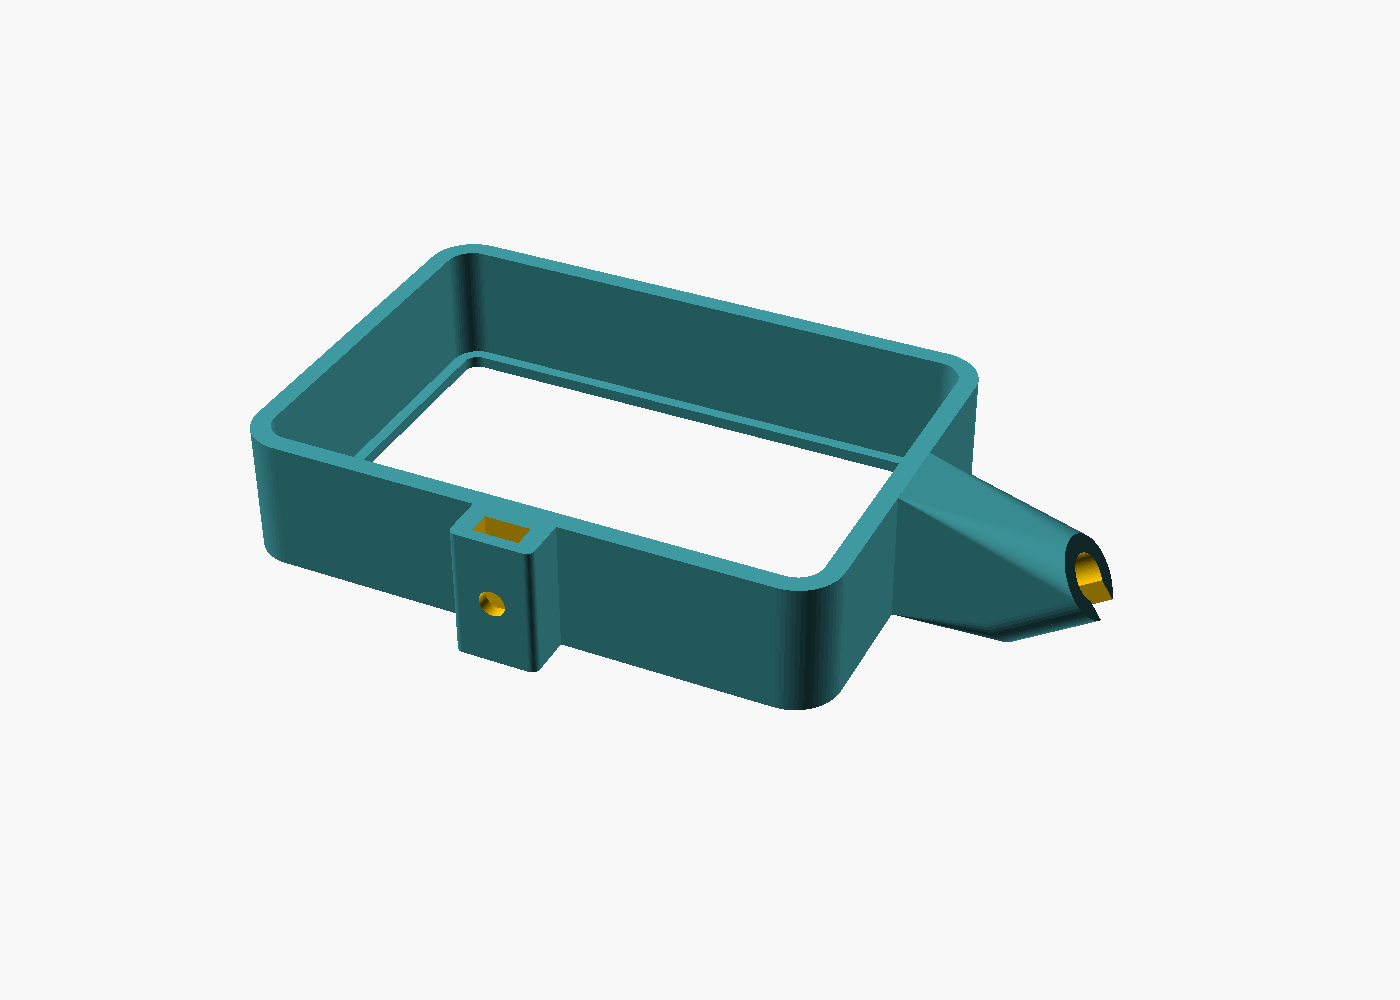
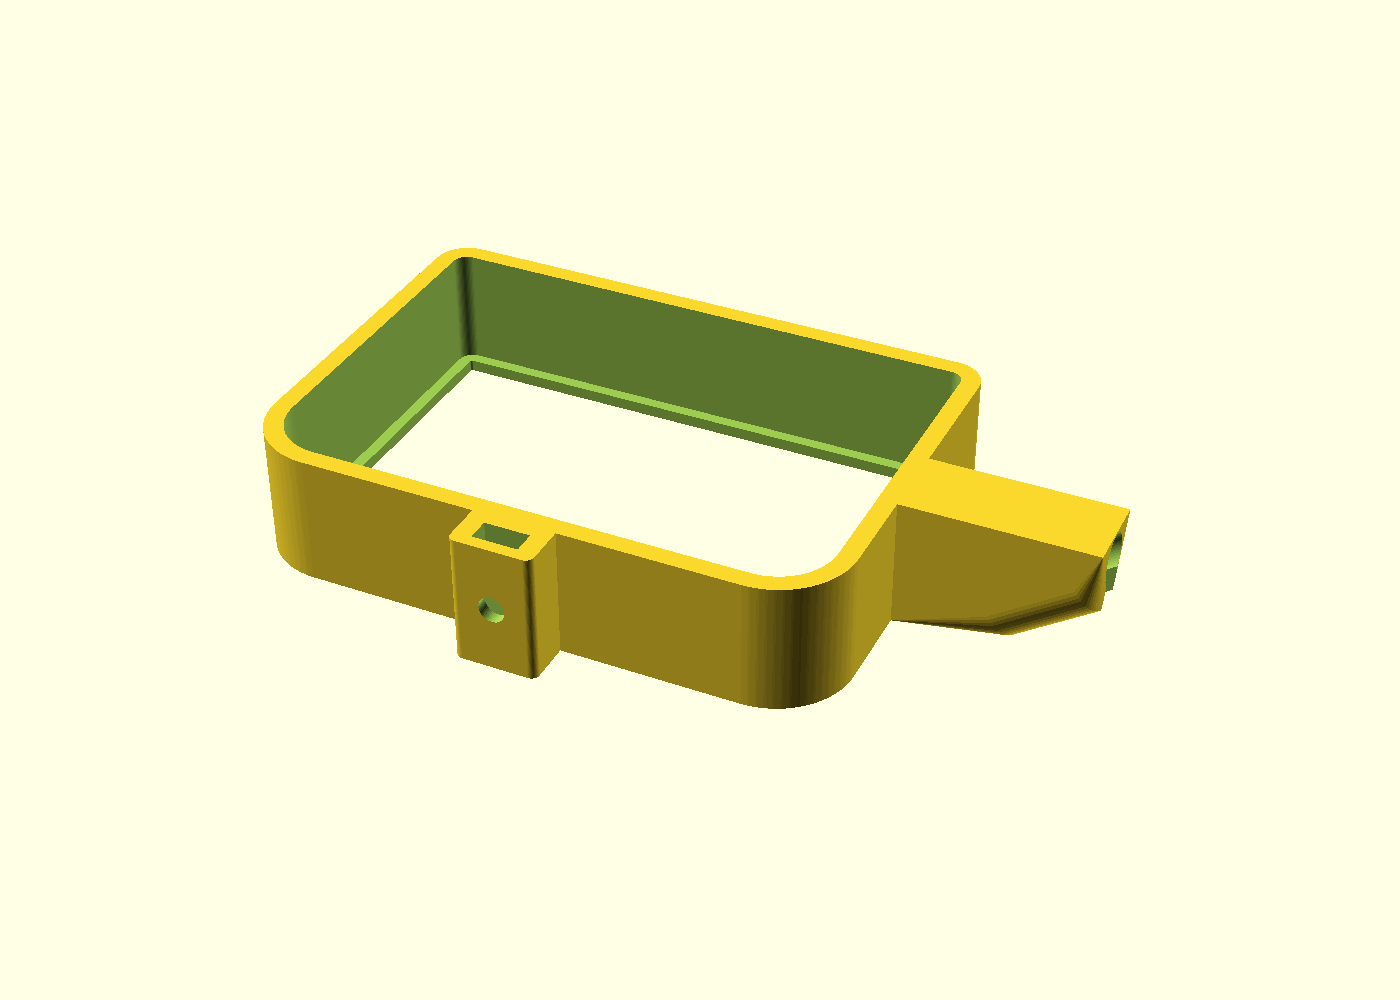
Separate front and back corner radii, Falcon mod_d back to 47.1

Changed region(s): [[0.1536, 0.248, 0.8293, 0.713]]

diff --git a/README.md b/README.md
@@ -26,7 +26,8 @@ machine), below the module, looking at the laser spot.
 
 If your laser is not listed, start with any clip preset and change the sizes (see below).
 
-**Falcon A1 Pro 20W notes**: module 69.5 × 47.1 mm, beam 34.5 mm from the right face.
+**Falcon A1 Pro 20W notes**: module 69.5 × 47.1 mm, corner radius about 7 mm at the front
+and 1.5 mm at the back, beam 34.5 mm from the right face.
 The bottom screws are M3×8, 35.5 mm apart, 10 mm in from the right face. The bracket adds
 3 mm, so use M3×10: that still engages 7 mm of thread and cannot bottom out deeper than the
 original screw. The clip band is 15 mm high; the side vents start at 27 mm, and the back
@@ -65,7 +66,7 @@ laser. All sliders jump to the values of that preset.
 
 Press **F5** (preview). You see:
 
-- the mount (teal),
+- the mount (yellow),
 - a transparent grey box: your laser module,
 - a transparent rod: the endoscope,
 - a blue line and dot: the laser beam and its focus point,
@@ -92,7 +93,12 @@ Open a section in the Customizer, drag a slider or type a number, then press **F
 |---|---|
 | `mod_w` | width of the module, left to right |
 | `mod_d` | depth of the module, front to back |
-| `mod_r` | how rounded the vertical corners are (radius) |
+| `mod_r_front` | corner radius of the two front corners, seen from below |
+| `mod_r_back` | corner radius of the two back corners, seen from below |
+
+Measure where the clip band will sit (the lowest 10–15 mm of the housing). Many modules
+have rounder corners at the front than at the back; estimate each radius, a bit too small is
+safer than too large.
 | `beam_x` | distance from the module's right face to the center of the nozzle |
 | `focus_dist` | distance from the module's bottom face down to the workpiece when focused |
 
@@ -110,7 +116,7 @@ Open a section in the Customizer, drag a slider or type a number, then press **F
 | Slider | Meaning |
 |---|---|
 | `cam_offset` | how far the lens center sits out to the right of the module |
-| `cam_drop` | how far the lens reaches below the mount's underside; 0 = flush with the mount |
+| `cam_drop` | how far the camera holder reaches below the mount's underside; 0 = flush, nothing sticks out below |
 | `aim_at_focus` | ticked: the camera points at the focus point automatically |
 | `cam_tilt` | manual angle, only used when `aim_at_focus` is off |
 
@@ -126,6 +132,7 @@ air-assist stream.
 | `clip_lip` | small ledge under the module's bottom edge, sets the height |
 | `clip_wall` | wall thickness |
 | `clip_screw` | M3 clamp screw with a captive nut on the front |
+| `clip_flat_top` | fills the camera arm up to the band's top edge, so the clip prints upside down without supports |
 
 **Bottom screw mount** (only for `bottom_screws`)
 
@@ -162,7 +169,9 @@ added to the list above.
 2. **File → Export → Export as STL** (or F7).
 3. Slice and print:
    - **Material**: PETG or ASA. The module gets warm; PLA can soften.
-   - **Clip**: print it upside down (top edge of the band on the bed).
+   - **Clip**: print it upside down, top edge of the band on the bed. With `clip_flat_top`
+     on, the band and the camera arm lie flat, no supports needed. The lip under the
+     module's edge then prints as a small 1.5 mm ledge at the top.
    - **Bottom screws / side plate**: let your slicer choose the orientation and enable supports.
 4. Test the fit before you print the final version: print only the band with a low
    `clip_h`, or check the camera holder with `scope_clearance`.
